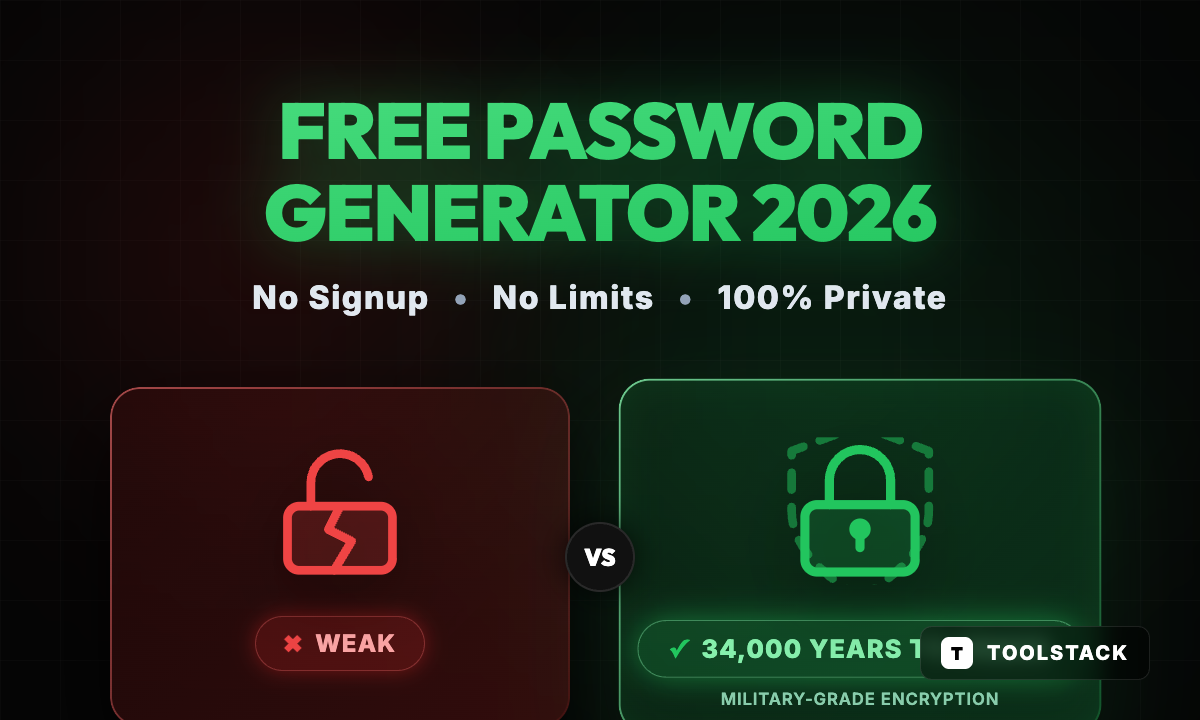
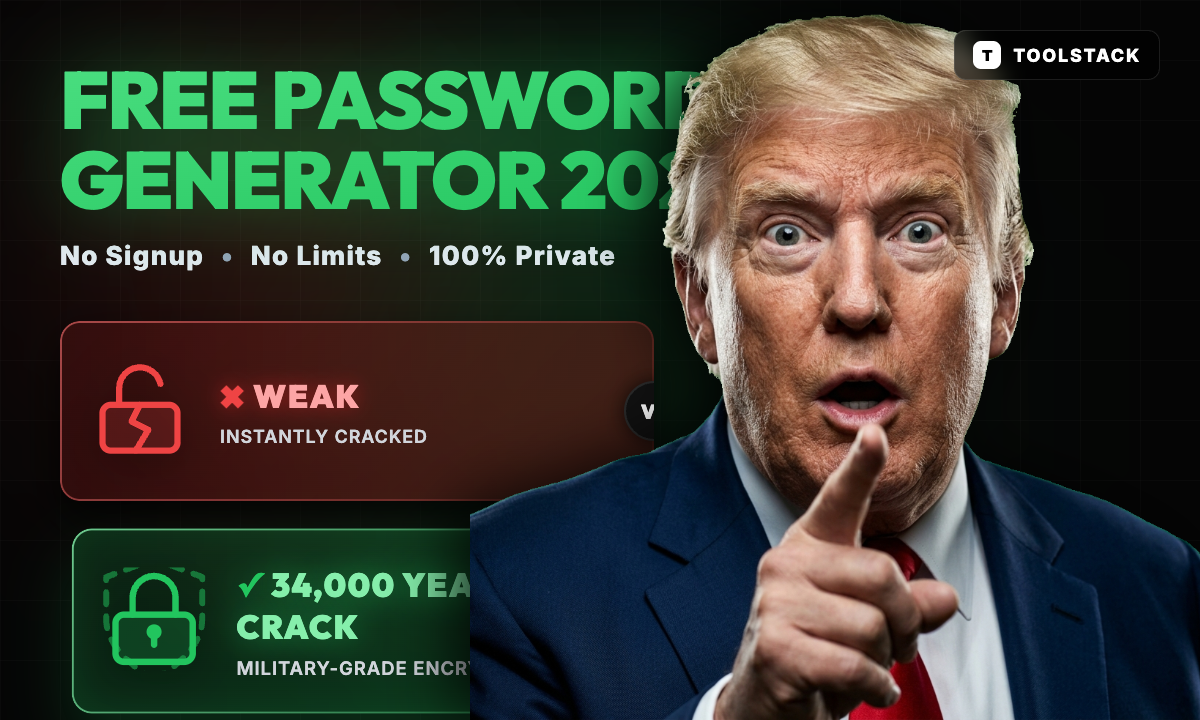
feat: add trump shocked face to password generator thumbnail

diff --git a/posters/thumbnail_password_generator.html b/posters/thumbnail_password_generator.html
@@ -30,9 +30,7 @@
       overflow: hidden;
       display: flex;
       flex-direction: column;
-      align-items: center;
       color: #fff;
-      padding: 80px 60px;
     }
 
     /* Cinematic Lighting & Background */
@@ -53,7 +51,7 @@
       left: -10%;
       width: 800px;
       height: 800px;
-      background: radial-gradient(circle, rgba(220,38,38,0.15) 0%, transparent 60%);
+      background: radial-gradient(circle, rgba(220,38,38,0.2) 0%, transparent 60%);
       filter: blur(80px);
       z-index: 2;
     }
@@ -61,39 +59,58 @@
     .glow-sphere-2 {
       position: absolute;
       bottom: -20%;
-      right: -10%;
+      right: 10%;
       width: 1000px;
       height: 1000px;
-      background: radial-gradient(circle, rgba(34,197,94,0.15) 0%, transparent 60%);
+      background: radial-gradient(circle, rgba(34,197,94,0.2) 0%, transparent 60%);
       filter: blur(100px);
       z-index: 2;
     }
 
+    /* Person / Face Image */
+    .face-cutout {
+      position: absolute;
+      bottom: 0;
+      right: -20px;
+      height: 750px;
+      z-index: 15;
+      filter: drop-shadow(-20px 0 30px rgba(0,0,0,0.8));
+    }
+
     /* Content Layout */
-    .header-section {
+    .content-wrapper {
       position: relative;
       z-index: 10;
-      text-align: center;
-      margin-bottom: 70px;
-      margin-top: 10px;
+      width: 100%;
+      height: 100%;
+      padding: 60px;
+      display: flex;
+      flex-direction: column;
+      justify-content: flex-start;
+    }
+
+    .header-section {
+      width: 65%;
+      margin-bottom: 50px;
+      z-index: 20;
     }
 
     .title {
       font-family: 'Outfit', sans-serif;
-      font-size: 78px;
+      font-size: 80px;
       font-weight: 900;
-      line-height: 1.05;
+      line-height: 1;
       letter-spacing: -0.02em;
-      margin-bottom: 24px;
+      margin-bottom: 20px;
       text-transform: uppercase;
       background: linear-gradient(to bottom right, #4ade80, #22c55e);
       -webkit-background-clip: text;
       -webkit-text-fill-color: transparent;
-      filter: drop-shadow(0 0 30px rgba(34,197,94,0.4));
+      filter: drop-shadow(0 0 40px rgba(34,197,94,0.5));
     }
 
     .subtitle {
-      font-size: 32px;
+      font-size: 26px;
       color: #e2e8f0;
       font-weight: 700;
       letter-spacing: 0.05em;
@@ -101,38 +118,36 @@
 
     .subtitle span {
       color: #94a3b8;
-      margin: 0 15px;
+      margin: 0 10px;
     }
 
     .comparison-section {
-      position: relative;
-      z-index: 10;
       display: flex;
-      justify-content: center;
-      gap: 60px;
-      width: 100%;
+      flex-direction: column;
+      gap: 30px;
+      width: 55%;
+      z-index: 20;
     }
 
     /* Cards */
     .card {
-      width: 460px;
-      height: 340px;
-      border-radius: 30px;
+      width: 100%;
+      height: 180px;
+      border-radius: 20px;
       display: flex;
-      flex-direction: column;
-      justify-content: center;
       align-items: center;
+      padding: 0 30px;
       position: relative;
       backdrop-filter: blur(24px);
       overflow: hidden;
-      box-shadow: 0 40px 80px rgba(0,0,0,0.8);
+      box-shadow: 0 20px 40px rgba(0,0,0,0.8);
     }
 
     .card::before {
       content: '';
       position: absolute;
       inset: 0;
-      border-radius: 30px;
+      border-radius: 20px;
       padding: 2px;
       -webkit-mask: linear-gradient(#fff 0 0) content-box, linear-gradient(#fff 0 0);
       -webkit-mask-composite: xor;
@@ -141,16 +156,17 @@
     }
 
     .card-red {
-      background: linear-gradient(135deg, rgba(220,38,38,0.1), rgba(153,27,27,0.3));
+      background: linear-gradient(135deg, rgba(220,38,38,0.15), rgba(153,27,27,0.4));
     }
     .card-red::before {
       background: linear-gradient(135deg, rgba(248,113,113,0.6), rgba(220,38,38,0.1));
     }
 
     .card-green {
-      background: linear-gradient(135deg, rgba(34,197,94,0.1), rgba(21,128,61,0.3));
-      transform: scale(1.05); /* slightly emphasize the good side */
-      box-shadow: 0 40px 100px rgba(21,128,61,0.2), inset 0 0 40px rgba(34,197,94,0.1);
+      background: linear-gradient(135deg, rgba(34,197,94,0.15), rgba(21,128,61,0.4));
+      transform: scale(1.03) translateX(20px);
+      box-shadow: 0 30px 60px rgba(21,128,61,0.3), inset 0 0 40px rgba(34,197,94,0.15);
+      z-index: 25;
     }
     .card-green::before {
       background: linear-gradient(135deg, rgba(134,239,172,0.8), rgba(34,197,94,0.2));
@@ -158,48 +174,44 @@
 
     /* Icons */
     .icon-container {
-      margin-bottom: 30px;
-      filter: drop-shadow(0 20px 30px rgba(0,0,0,0.5));
+      flex-shrink: 0;
+      margin-right: 30px;
+      filter: drop-shadow(0 10px 20px rgba(0,0,0,0.5));
     }
 
     .lock-svg {
-      width: 140px;
-      height: 140px;
+      width: 100px;
+      height: 100px;
     }
 
     /* Badges */
+    .badge-container {
+      display: flex;
+      flex-direction: column;
+      gap: 10px;
+    }
+
     .badge {
-      padding: 12px 28px;
-      border-radius: 100px;
-      font-size: 24px;
-      font-weight: 800;
+      font-size: 32px;
+      font-weight: 900;
       letter-spacing: 0.05em;
       text-transform: uppercase;
-      display: flex;
-      align-items: center;
-      gap: 12px;
+      font-family: 'Outfit', sans-serif;
     }
 
     .badge-red {
-      background: rgba(220,38,38,0.2);
       color: #fca5a5;
-      border: 1px solid rgba(248,113,113,0.3);
-      box-shadow: 0 0 20px rgba(220,38,38,0.4);
+      text-shadow: 0 0 20px rgba(220,38,38,0.5);
     }
 
     .badge-green {
-      background: rgba(34,197,94,0.2);
       color: #86efac;
-      border: 1px solid rgba(134,239,172,0.4);
-      box-shadow: 0 0 30px rgba(34,197,94,0.5);
+      text-shadow: 0 0 30px rgba(34,197,94,0.6);
     }
     
     .badge-sub {
-      position: absolute;
-      bottom: 25px;
-      font-size: 16px;
-      color: #a7f3d0;
-      opacity: 0.8;
+      font-size: 18px;
+      color: #d1d5db;
       font-weight: 600;
       letter-spacing: 0.05em;
     }
@@ -208,10 +220,10 @@
     .vs-divider {
       position: absolute;
       top: 50%;
-      left: 50%;
-      transform: translate(-50%, -50%);
-      width: 70px;
-      height: 70px;
+      right: -30px;
+      transform: translateY(-50%);
+      width: 60px;
+      height: 60px;
       background: #111;
       border: 2px solid rgba(255,255,255,0.1);
       border-radius: 50%;
@@ -220,30 +232,30 @@
       align-items: center;
       font-family: 'Outfit', sans-serif;
       font-weight: 900;
-      font-size: 24px;
+      font-size: 20px;
       color: #fff;
-      z-index: 20;
-      box-shadow: 0 0 30px rgba(0,0,0,0.8);
+      z-index: 30;
+      box-shadow: 0 0 20px rgba(0,0,0,0.8);
     }
 
     /* ToolStack Brand Tag */
     .brand-tag {
       position: absolute;
-      bottom: 40px;
-      right: 50px;
+      top: 30px;
+      right: 40px;
       display: flex;
       align-items: center;
-      gap: 14px;
+      gap: 12px;
       z-index: 20;
-      background: rgba(0,0,0,0.5);
-      padding: 10px 20px;
+      background: rgba(0,0,0,0.6);
+      padding: 10px 18px;
       border-radius: 12px;
       border: 1px solid rgba(255,255,255,0.1);
       backdrop-filter: blur(10px);
     }
     .brand-logo {
-      width: 32px;
-      height: 32px;
+      width: 28px;
+      height: 28px;
       background: #fff;
       border-radius: 8px;
       display: flex;
@@ -251,13 +263,13 @@
       align-items: center;
       color: #000;
       font-weight: 900;
-      font-size: 18px;
+      font-size: 16px;
       font-family: 'Outfit', sans-serif;
     }
     .brand-name {
       color: #fff;
       font-weight: 800;
-      font-size: 20px;
+      font-size: 18px;
       letter-spacing: 0.1em;
     }
   </style>
@@ -268,51 +280,50 @@
     <div class="glow-sphere-1"></div>
     <div class="glow-sphere-2"></div>
 
-    <div class="header-section">
-      <h1 class="title">FREE PASSWORD GENERATOR 2026</h1>
-      <div class="subtitle">
-        No Signup <span>•</span> No Limits <span>•</span> 100% Private
-      </div>
-    </div>
+    <!-- The Shocked Face (Trump) Cutout -->
+    <img src="../public/blog/trump_cutout.png" class="face-cutout" alt="Trump Shocked" />
 
-    <div class="comparison-section">
-      <div class="vs-divider">VS</div>
-      
-      <!-- Left: Weak Password -->
-      <div class="card card-red">
-        <div class="icon-container">
-          <!-- Cracked Padlock SVG -->
-          <svg class="lock-svg" viewBox="0 0 24 24" fill="none" stroke="#ef4444" stroke-width="1.5" stroke-linecap="round" stroke-linejoin="round">
-            <rect x="3" y="11" width="18" height="11" rx="2" ry="2" fill="rgba(239,68,68,0.2)"></rect>
-            <!-- Shackle opened/broken -->
-            <path d="M7 11V7a5 5 0 0 1 9.9-1"></path>
-            <!-- Crack through the lock body -->
-            <path d="M12 11l-2 4 4 2-3 5"></path>
-          </svg>
-        </div>
-        <div class="badge badge-red">
-          <span style="color: #ef4444">✖</span> WEAK
+    <div class="content-wrapper">
+      <div class="header-section">
+        <h1 class="title">FREE PASSWORD GENERATOR 2026</h1>
+        <div class="subtitle">
+          No Signup <span>•</span> No Limits <span>•</span> 100% Private
         </div>
       </div>
 
-      <!-- Right: Strong Password -->
-      <div class="card card-green">
-        <div class="icon-container">
-          <!-- Strong Locked Padlock SVG -->
-          <svg class="lock-svg" viewBox="0 0 24 24" fill="none" stroke="#22c55e" stroke-width="1.5" stroke-linecap="round" stroke-linejoin="round">
-            <rect x="3" y="11" width="18" height="11" rx="2" ry="2" fill="rgba(34,197,94,0.2)"></rect>
-            <path d="M7 11V7a5 5 0 0 1 10 0v4"></path>
-            <!-- Keyhole -->
-            <circle cx="12" cy="15" r="1" fill="#22c55e"></circle>
-            <path d="M12 16v2"></path>
-            <!-- Shield overlay for extra security feel -->
-            <path d="M12 22s8-4 8-10V5l-8-3-8 3v7c0 6 8 10 8 10z" stroke="rgba(34,197,94,0.5)" fill="none" stroke-width="1" stroke-dasharray="2 2" transform="scale(1.4) translate(-3.4, -3.4)"></path>
-          </svg>
+      <div class="comparison-section">
+        <!-- Weak Password -->
+        <div class="card card-red">
+          <div class="icon-container">
+            <svg class="lock-svg" viewBox="0 0 24 24" fill="none" stroke="#ef4444" stroke-width="1.5" stroke-linecap="round" stroke-linejoin="round">
+              <rect x="3" y="11" width="18" height="11" rx="2" ry="2" fill="rgba(239,68,68,0.2)"></rect>
+              <path d="M7 11V7a5 5 0 0 1 9.9-1"></path>
+              <path d="M12 11l-2 4 4 2-3 5"></path>
+            </svg>
+          </div>
+          <div class="badge-container">
+            <div class="badge badge-red"><span style="color: #ef4444">✖</span> WEAK</div>
+            <div class="badge-sub">INSTANTLY CRACKED</div>
+          </div>
+          <div class="vs-divider">VS</div>
         </div>
-        <div class="badge badge-green">
-          <span style="color: #22c55e">✓</span> 34,000 YEARS TO CRACK
+
+        <!-- Strong Password -->
+        <div class="card card-green">
+          <div class="icon-container">
+            <svg class="lock-svg" viewBox="0 0 24 24" fill="none" stroke="#22c55e" stroke-width="1.5" stroke-linecap="round" stroke-linejoin="round">
+              <rect x="3" y="11" width="18" height="11" rx="2" ry="2" fill="rgba(34,197,94,0.2)"></rect>
+              <path d="M7 11V7a5 5 0 0 1 10 0v4"></path>
+              <circle cx="12" cy="15" r="1" fill="#22c55e"></circle>
+              <path d="M12 16v2"></path>
+              <path d="M12 22s8-4 8-10V5l-8-3-8 3v7c0 6 8 10 8 10z" stroke="rgba(34,197,94,0.5)" fill="none" stroke-width="1" stroke-dasharray="2 2" transform="scale(1.4) translate(-3.4, -3.4)"></path>
+            </svg>
+          </div>
+          <div class="badge-container">
+            <div class="badge badge-green"><span style="color: #22c55e">✓</span> 34,000 YEARS TO CRACK</div>
+            <div class="badge-sub">MILITARY-GRADE ENCRYPTION</div>
+          </div>
         </div>
-        <div class="badge-sub">MILITARY-GRADE ENCRYPTION</div>
       </div>
     </div>
 